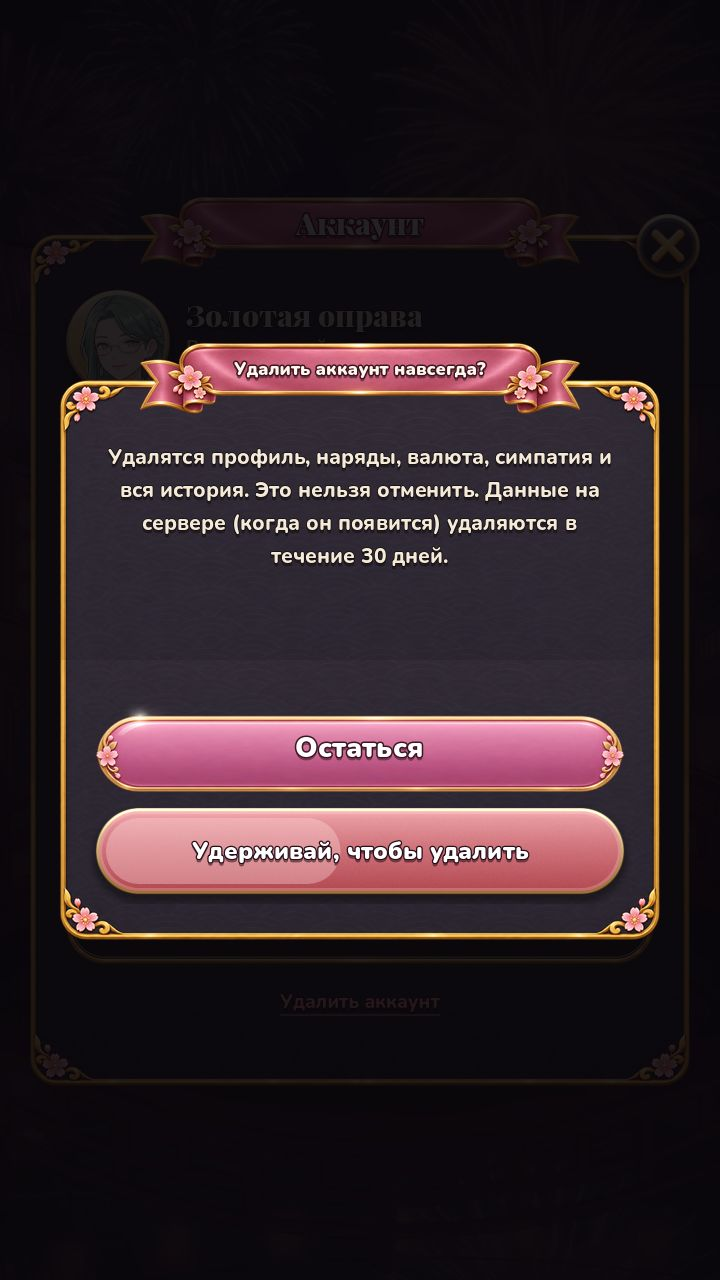
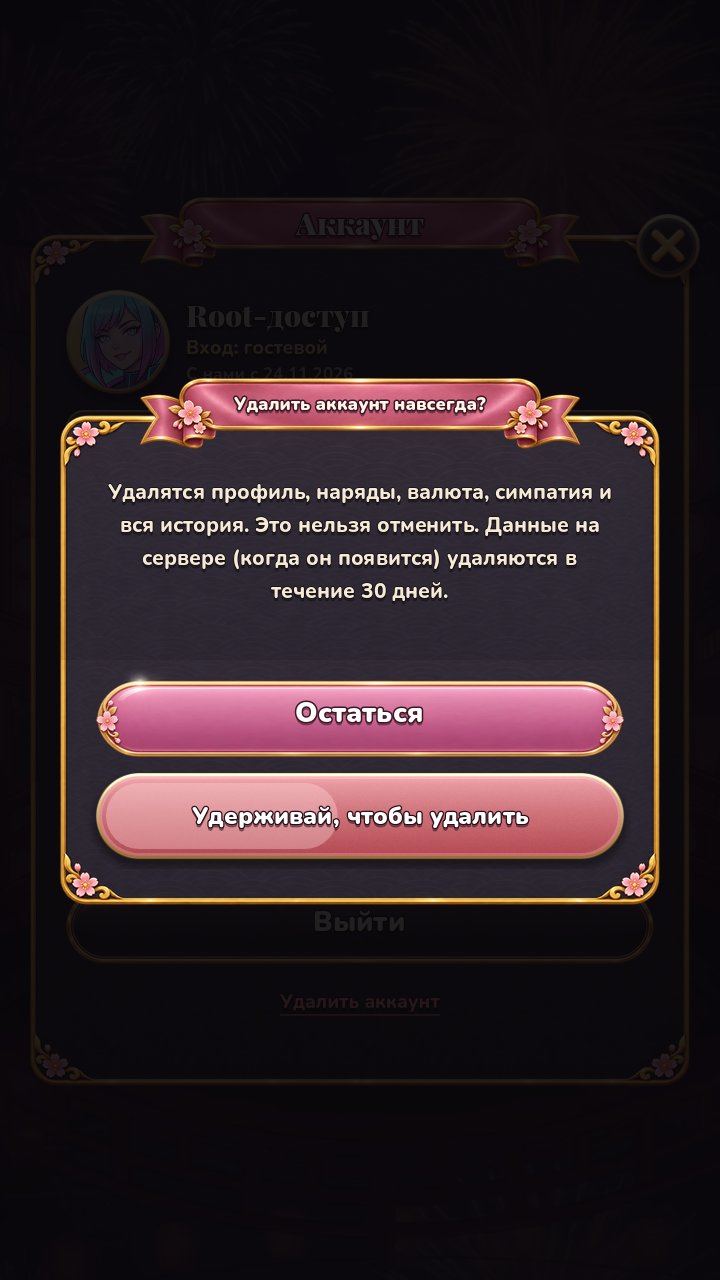
v10-auth review: consent withdrawal unlinks for guests too, deletion wipes the 0.8 pre-import copy and keeps no names in the outbox, intro after deletion, soft welcome glow, compact delete sheet
Claude-Session: https://claude.ai/code/session_015DEnYgjuvjgqAwMSfCumJh

Changed region(s): [[0.0611, 0.5, 0.9167, 0.75], [0.0611, 0.25, 0.9167, 0.4688]]

diff --git a/game/scripts/v10/auth/README.md b/game/scripts/v10/auth/README.md
@@ -69,14 +69,14 @@ VK ID: OneTap Android SDK → authorization code + PKCE → обмен на се
 ## Проверка
 ```
 flock /tmp/tw-godot.lock /opt/tw-tools/godot --headless --path game res://scripts/v10/auth/auth_dev.tscn -- \
-  --auth_selftest=1 --save=user://auth_selftest_save.json --save_wipe=1          # AUTH_SELFTEST 98/98
+  --auth_selftest=1 --save=user://auth_selftest_save.json --save_wipe=1          # AUTH_SELFTEST 102/102
 flock /tmp/tw-godot.lock xvfb-run -a /opt/tw-tools/godot --path game --rendering-driver opengl3 --audio-driver Dummy \
   --resolution 720x1280 res://scripts/v10/auth/auth_dev.tscn -- --auth_shots=<dir> --flavor=rustore \
   --save=user://auth_shots_save.json --save_wipe=1                                 # 11 кадров; --only=login|splash
 ```
 Самотест: первый запуск → гость → перезапуск (автовход) → выход → снова вход; все заглушки провайдеров; согласие и его отзыв;
 повреждённая / подделанная / пропавшая / чужая / с другого устройства сессия; истёкшая сессия провайдера → гость с тостом, привязки целы;
-офлайн-льгота неистёкшей сессии; миграция сейва 0.9; удаление аккаунта (сейв + бэкап + сессия + install id + очередь на сервер);
+офлайн-льгота неистёкшей сессии; миграция сейва 0.9; удаление аккаунта (сейв + бэкап + копия импорта 0.8 + сессия + install id + очередь на сервер, в запросе только id); отзыв согласия гостем с сохранённой привязкой;
 уникальность ID; ники; стоп-слова; хук V10AgeGate; UI-смоук экрана входа (3 флейвора), листа имени, листа аккаунта.
 
 ## Арт (Higgsfield, gpt_image_2_6, рецепт v4)
